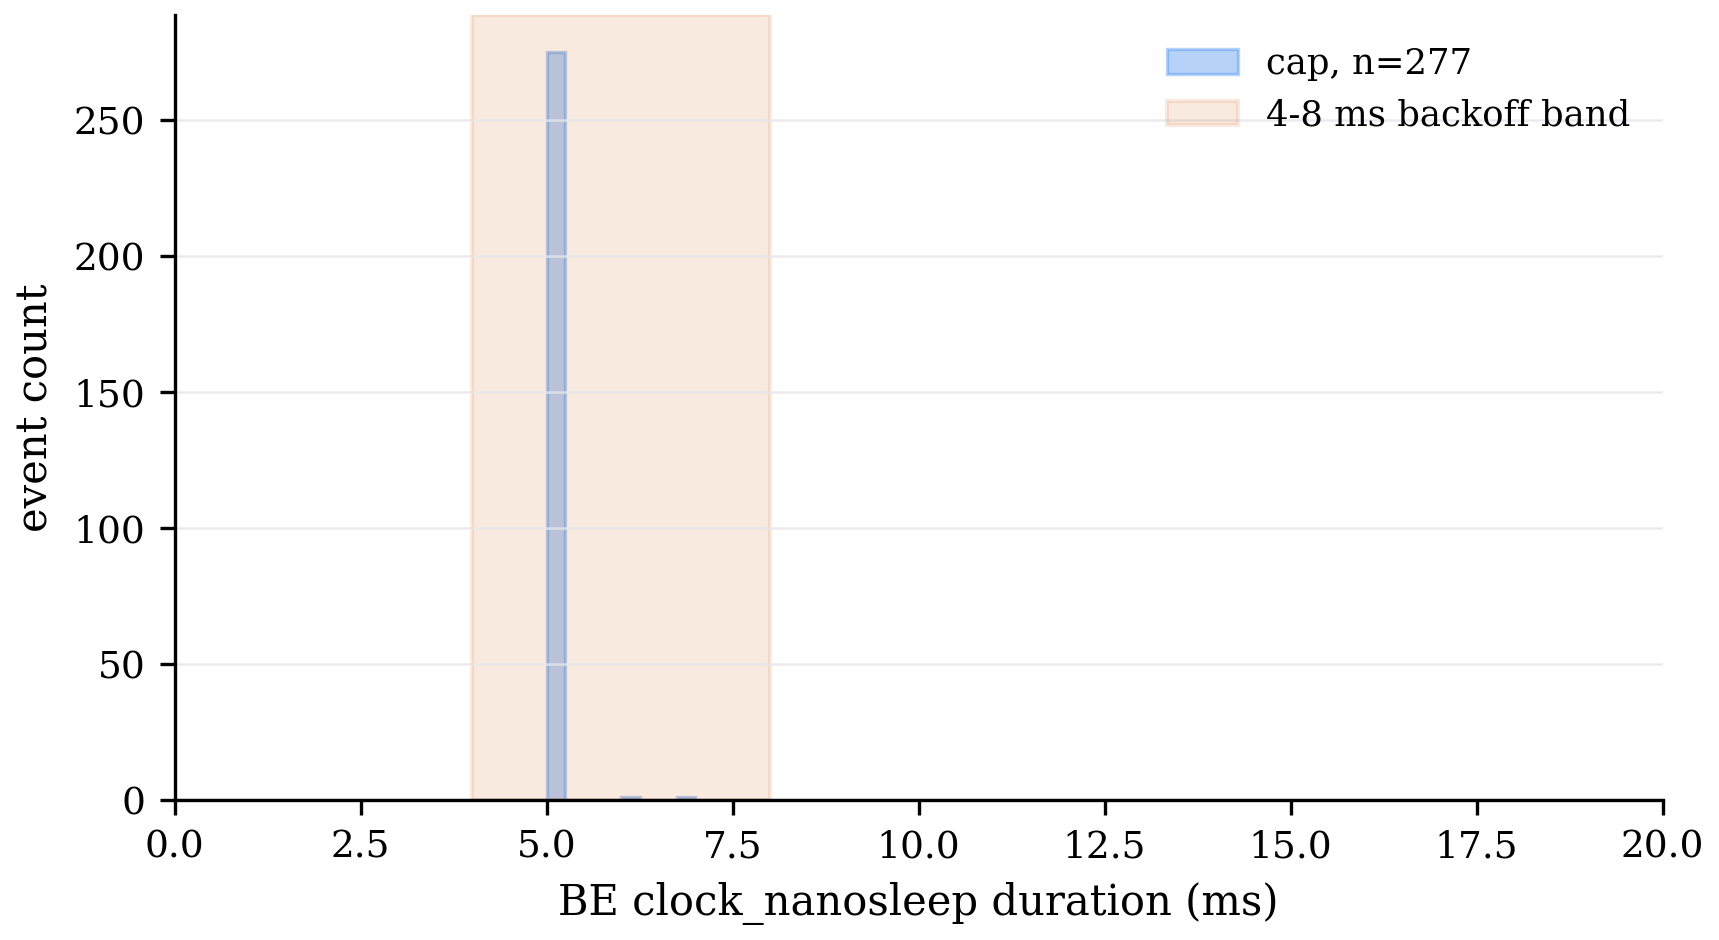
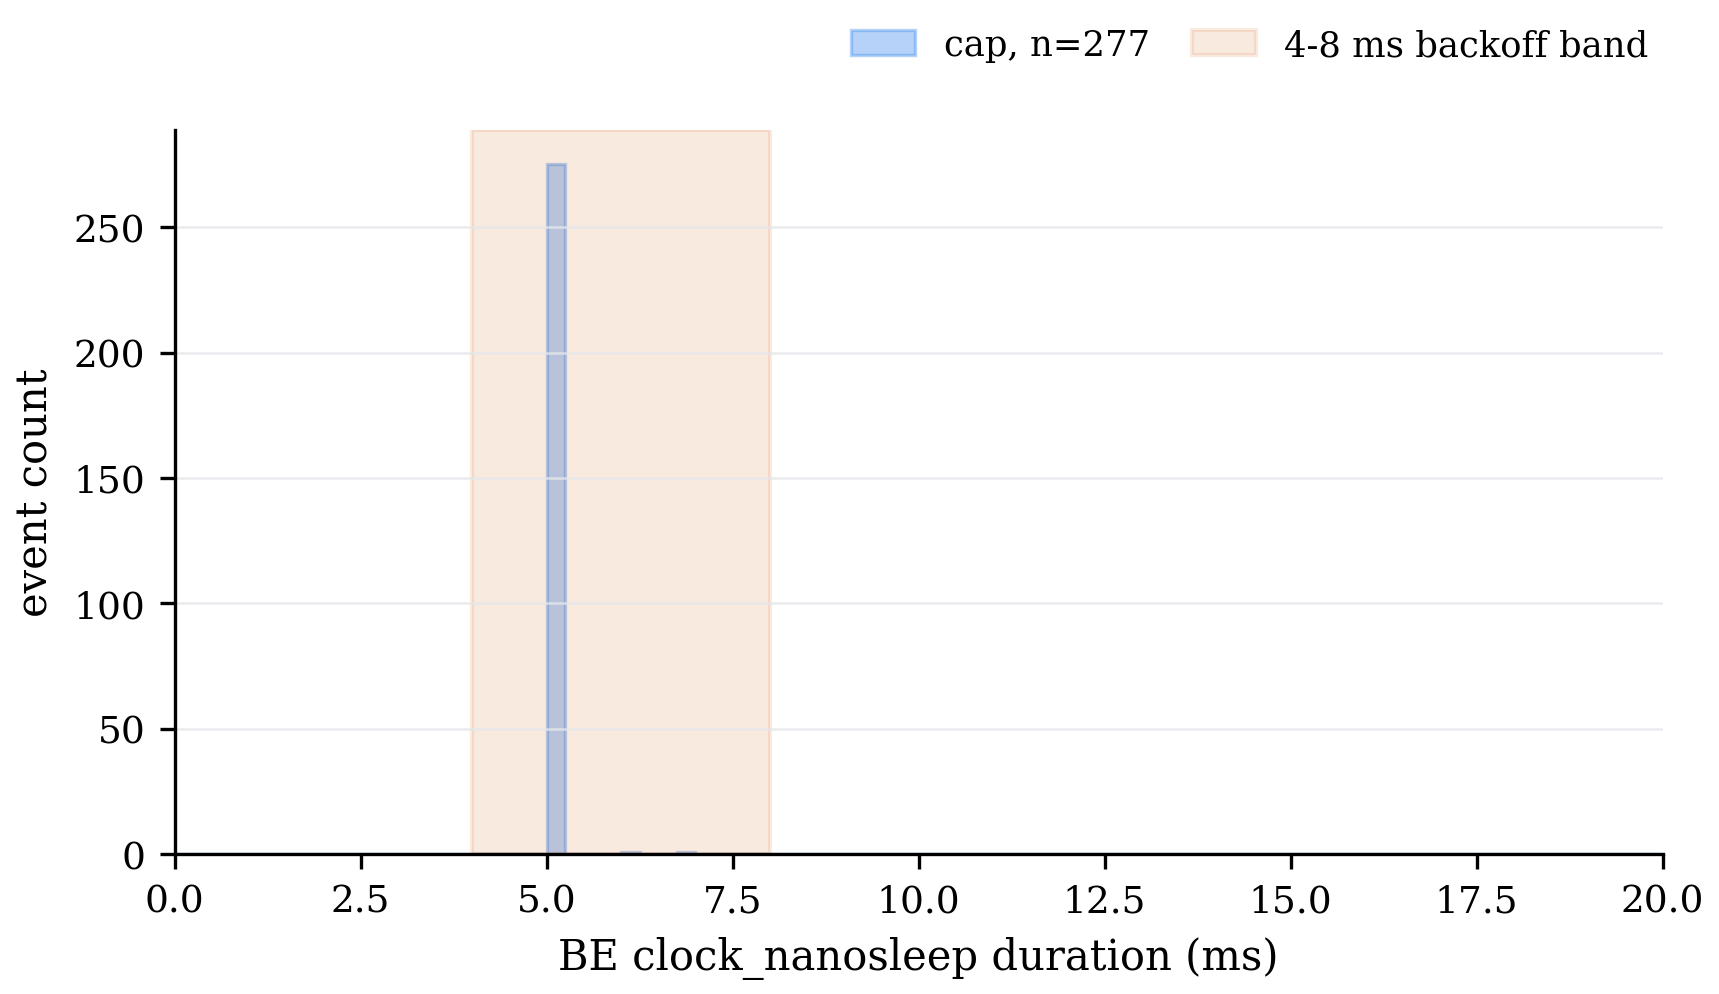
figures

diff --git a/llama_validation/scripts/lc_plots.py b/llama_validation/scripts/lc_plots.py
@@ -767,14 +767,49 @@ def nanosleep_durations_ms(path: Optional[str | Path]) -> List[float]:
 # Plot helpers
 # -----------------------------------------------------------------------------
 
-def annotate_delta(ax, x: float, y: float, text: str) -> None:
+def annotate_delta(ax, x: float, y: float, text: str, *, outside: bool = False) -> None:
+    """Place a compact delta label.
+
+    By default the label is inside the axes.  With outside=True it is placed
+    just above the plotting area, which avoids covering dense point clouds.
+    """
     ax.text(
         x, y, text,
         transform=ax.transAxes,
-        ha="right", va="top",
-        fontsize=9,
-        bbox={"boxstyle": "round,pad=0.25", "facecolor": "white", "edgecolor": COLOR_LIGHT, "alpha": 0.95},
+        ha="right", va="bottom" if outside else "top",
+        fontsize=8.5,
+        clip_on=False,
+        bbox={"boxstyle": "round,pad=0.22", "facecolor": "white", "edgecolor": COLOR_LIGHT, "alpha": 0.98},
     )
+
+
+def add_vertical_headroom(ax, top_frac: float = 0.10, bottom_frac: float = 0.06) -> None:
+    """Expand y-limits so annotations and mean bars do not crowd points."""
+    ymin, ymax = ax.get_ylim()
+    span = ymax - ymin
+    if span <= 0:
+        return
+    ax.set_ylim(ymin - span * bottom_frac, ymax + span * top_frac)
+
+
+def axis_scaled_values(values: Sequence[Optional[float]], base_unit: str) -> Tuple[List[float], str]:
+    """Return values in a readable unit and the corresponding axis label suffix.
+
+    The OS CSV stores p95/p99 in microseconds, but large values make Matplotlib
+    display distracting 1e6 offsets.  This helper converts us -> ms -> s when
+    appropriate and keeps the axis explicit.
+    """
+    vals = numeric_values(values)
+    if not vals:
+        return [], base_unit
+    med = float(np.median(np.abs(vals)))
+    if base_unit == "us":
+        if med >= 1_000_000:
+            return [v / 1_000_000.0 for v in vals], "s"
+        if med >= 1_000:
+            return [v / 1_000.0 for v in vals], "ms"
+        return vals, "us"
+    return vals, base_unit
 
 
 def scatter_two_groups(
@@ -836,14 +871,16 @@ def plot_delta_strip(
         m = mean(vals)
         if m is not None:
             ax.plot([i - 0.25, i + 0.25], [m, m], color="black", linewidth=2.0, zorder=4)
-            tick_labels.append(f"{labels[i]}\nmean {m:+.1f}%")
+            tick_labels.append(f"{labels[i]}\n{m:+.1f}%")
         else:
             tick_labels.append(f"{labels[i]}\nn/a")
     ax.axhline(0, color="black", linewidth=0.8, linestyle="--", zorder=1)
     ax.set_xticks(range(len(labels)))
     ax.set_xticklabels(tick_labels)
+    ax.tick_params(axis="x", pad=8)
     ax.set_ylabel(ylabel)
     ax.grid(axis="y", color=COLOR_LIGHT, linewidth=0.6, alpha=0.8)
+    add_vertical_headroom(ax, top_frac=0.12, bottom_frac=0.12)
 
 
 # -----------------------------------------------------------------------------
@@ -878,7 +915,9 @@ def fig1_policy_signature_nanosleep(
     ax.set_ylabel("event count")
     ax.set_xlim(0, 20)
     ax.grid(axis="y", color=COLOR_LIGHT, linewidth=0.6, alpha=0.8)
-    ax.legend(loc="upper right", frameon=False)
+    ax.legend(loc="upper right", bbox_to_anchor=(1.0, 1.16), ncol=2,
+              frameon=False, borderaxespad=0.0, handlelength=1.8, columnspacing=1.2)
+    fig.subplots_adjust(top=0.82)
 
     out = out_dir / "fig1_policy_signature_nanosleep.png"
     fig.savefig(out)
@@ -905,28 +944,41 @@ def fig2_os_futex_reshape_jk(os_rows: List[dict], out_dir: Path, summary_rows: L
         skip("fig 2: no J/K futex wake-cohort rows in OS CSV")
         return
 
-    none_p95_us = [p[3] for p in pairs if p[3] is not None]
-    cap_p95_us = [p[4] for p in pairs if p[4] is not None]
+    none_p95_raw = [p[3] for p in pairs if p[3] is not None]
+    cap_p95_raw = [p[4] for p in pairs if p[4] is not None]
+    scaled_p95, p95_unit = axis_scaled_values(none_p95_raw + cap_p95_raw, "us")
+    # Preserve none/cap lengths after choosing a common readable unit.
+    if p95_unit == "s":
+        none_p95 = [v / 1_000_000.0 for v in none_p95_raw]
+        cap_p95 = [v / 1_000_000.0 for v in cap_p95_raw]
+    elif p95_unit == "ms":
+        none_p95 = [v / 1_000.0 for v in none_p95_raw]
+        cap_p95 = [v / 1_000.0 for v in cap_p95_raw]
+    else:
+        none_p95 = list(none_p95_raw)
+        cap_p95 = list(cap_p95_raw)
     none_p99_s = [p[1] / 1e6 for p in pairs if p[1] is not None]
     cap_p99_s = [p[2] / 1e6 for p in pairs if p[2] is not None]
 
-    fig, axes = plt.subplots(1, 2, figsize=(7.4, 3.45))
+    fig, axes = plt.subplots(1, 2, figsize=(7.6, 3.45))
 
     d95 = scatter_two_groups(
-        axes[0], none_p95_us, cap_p95_us,
-        ylabel="LC futex wake p95 (us)",
+        axes[0], none_p95, cap_p95,
+        ylabel=f"LC futex wake p95 ({p95_unit})",
         left_label="J\nnone", right_label="K\ncap", seed=11,
     )
-    axes[0].set_title("Body")
-    annotate_delta(axes[0], 0.98, 0.96, f"mean delta {format_delta(d95)}")
+    add_vertical_headroom(axes[0], top_frac=0.16, bottom_frac=0.05)
+    axes[0].set_title("Body", pad=16)
+    annotate_delta(axes[0], 0.98, 1.04, f"mean delta {format_delta(d95)}", outside=True)
 
     d99 = scatter_two_groups(
         axes[1], none_p99_s, cap_p99_s,
         ylabel="LC futex wake p99 (s)",
         left_label="J\nnone", right_label="K\ncap", seed=12,
     )
-    axes[1].set_title("Tail")
-    annotate_delta(axes[1], 0.98, 0.96, f"mean delta {format_delta(d99)}")
+    add_vertical_headroom(axes[1], top_frac=0.16, bottom_frac=0.05)
+    axes[1].set_title("Tail", pad=16)
+    annotate_delta(axes[1], 0.98, 1.04, f"mean delta {format_delta(d99)}", outside=True)
 
     legend_elements = [
         Line2D([0], [0], marker=MARKER_NONE, color="w", label="case J / none",
@@ -935,6 +987,7 @@ def fig2_os_futex_reshape_jk(os_rows: List[dict], out_dir: Path, summary_rows: L
                markerfacecolor=COLOR_CAP, markeredgecolor="black", markersize=6),
     ]
     axes[1].legend(handles=legend_elements, loc="lower right", frameon=False)
+    fig.subplots_adjust(top=0.80, wspace=0.34)
 
     out = out_dir / "fig2_os_futex_reshape_jk.png"
     fig.savefig(out)
@@ -942,7 +995,7 @@ def fig2_os_futex_reshape_jk(os_rows: List[dict], out_dir: Path, summary_rows: L
     ok(f"fig 2: wrote {out}")
 
     summary_rows.extend([
-        {"figure": "fig2_os_futex_reshape_jk", "metric": "os_futex_woken_p95_us", "none": mean(none_p95_us), "cap": mean(cap_p95_us), "delta_pct": d95, "n_none": len(none_p95_us), "n_cap": len(cap_p95_us)},
+        {"figure": "fig2_os_futex_reshape_jk", "metric": "os_futex_woken_p95_us", "none": mean(none_p95_raw), "cap": mean(cap_p95_raw), "delta_pct": d95, "n_none": len(none_p95_raw), "n_cap": len(cap_p95_raw)},
         {"figure": "fig2_os_futex_reshape_jk", "metric": "os_futex_woken_p99_s", "none": mean(none_p99_s), "cap": mean(cap_p99_s), "delta_pct": d99, "n_none": len(none_p99_s), "n_cap": len(cap_p99_s)},
     ])
 
@@ -980,11 +1033,8 @@ def fig3_app_latency_stack_jk(
         ylabel="LC p99 delta under cap (%)",
         seed=21,
     )
-    ax.set_ylim(auto=True)
-    # Make improvement direction visually explicit without using a long title.
-    ymin, ymax = ax.get_ylim()
-    ax.text(0.01, 0.05, "lower is better for LC", transform=ax.transAxes,
-            ha="left", va="bottom", fontsize=8.5, color=COLOR_NEUTRAL)
+    ax.set_xlabel("application-layer LC metric (mean delta shown below)", labelpad=10)
+    fig.subplots_adjust(bottom=0.26)
 
     out = out_dir / "fig3_app_latency_stack_jk.png"
     fig.savefig(out)
@@ -1042,9 +1092,8 @@ def fig4_lc_be_tradeoff_jk(
         ylabel="client p99 delta under cap (%)",
         seed=31,
     )
-    ax.text(0.01, 0.05, "negative protects LC; positive penalises BE",
-            transform=ax.transAxes, ha="left", va="bottom", fontsize=8.5,
-            color=COLOR_NEUTRAL)
+    ax.set_xlabel("workload class (mean delta shown below)", labelpad=10)
+    fig.subplots_adjust(bottom=0.28)
 
     out = out_dir / "fig4_lc_be_tradeoff_jk.png"
     fig.savefig(out)
@@ -1118,15 +1167,18 @@ def fig5_cross_layer_case_matrix(
     for i in range(matrix.shape[0]):
         for j in range(matrix.shape[1]):
             if np.isfinite(matrix[i, j]):
-                ax.text(j, i, f"{matrix[i, j]:+.1f}%\n(n={int(cell_counts[i, j])})",
-                        ha="center", va="center", fontsize=8.5, color="black")
+                val = matrix[i, j]
+                text_color = "white" if abs(val) > 0.55 * max_abs else "black"
+                ax.text(j, i, f"{val:+.1f}%\n(n={int(cell_counts[i, j])})",
+                        ha="center", va="center", fontsize=8.3, color=text_color)
             else:
-                ax.text(j, i, "n/a", ha="center", va="center", fontsize=8.5, color="black")
+                ax.text(j, i, "n/a", ha="center", va="center", fontsize=8.3, color="black")
 
     cbar = fig.colorbar(im, ax=ax, fraction=0.046, pad=0.04)
     cbar.set_label("p99 delta under cap (%)")
-    ax.set_xlabel("case pair")
-    ax.set_ylabel("measurement layer")
+    ax.set_xlabel("case pair", labelpad=8)
+    ax.set_ylabel("measurement layer", labelpad=10)
+    fig.subplots_adjust(left=0.20, bottom=0.23, right=0.88)
 
     out = out_dir / "fig5_cross_layer_case_matrix.png"
     fig.savefig(out)
